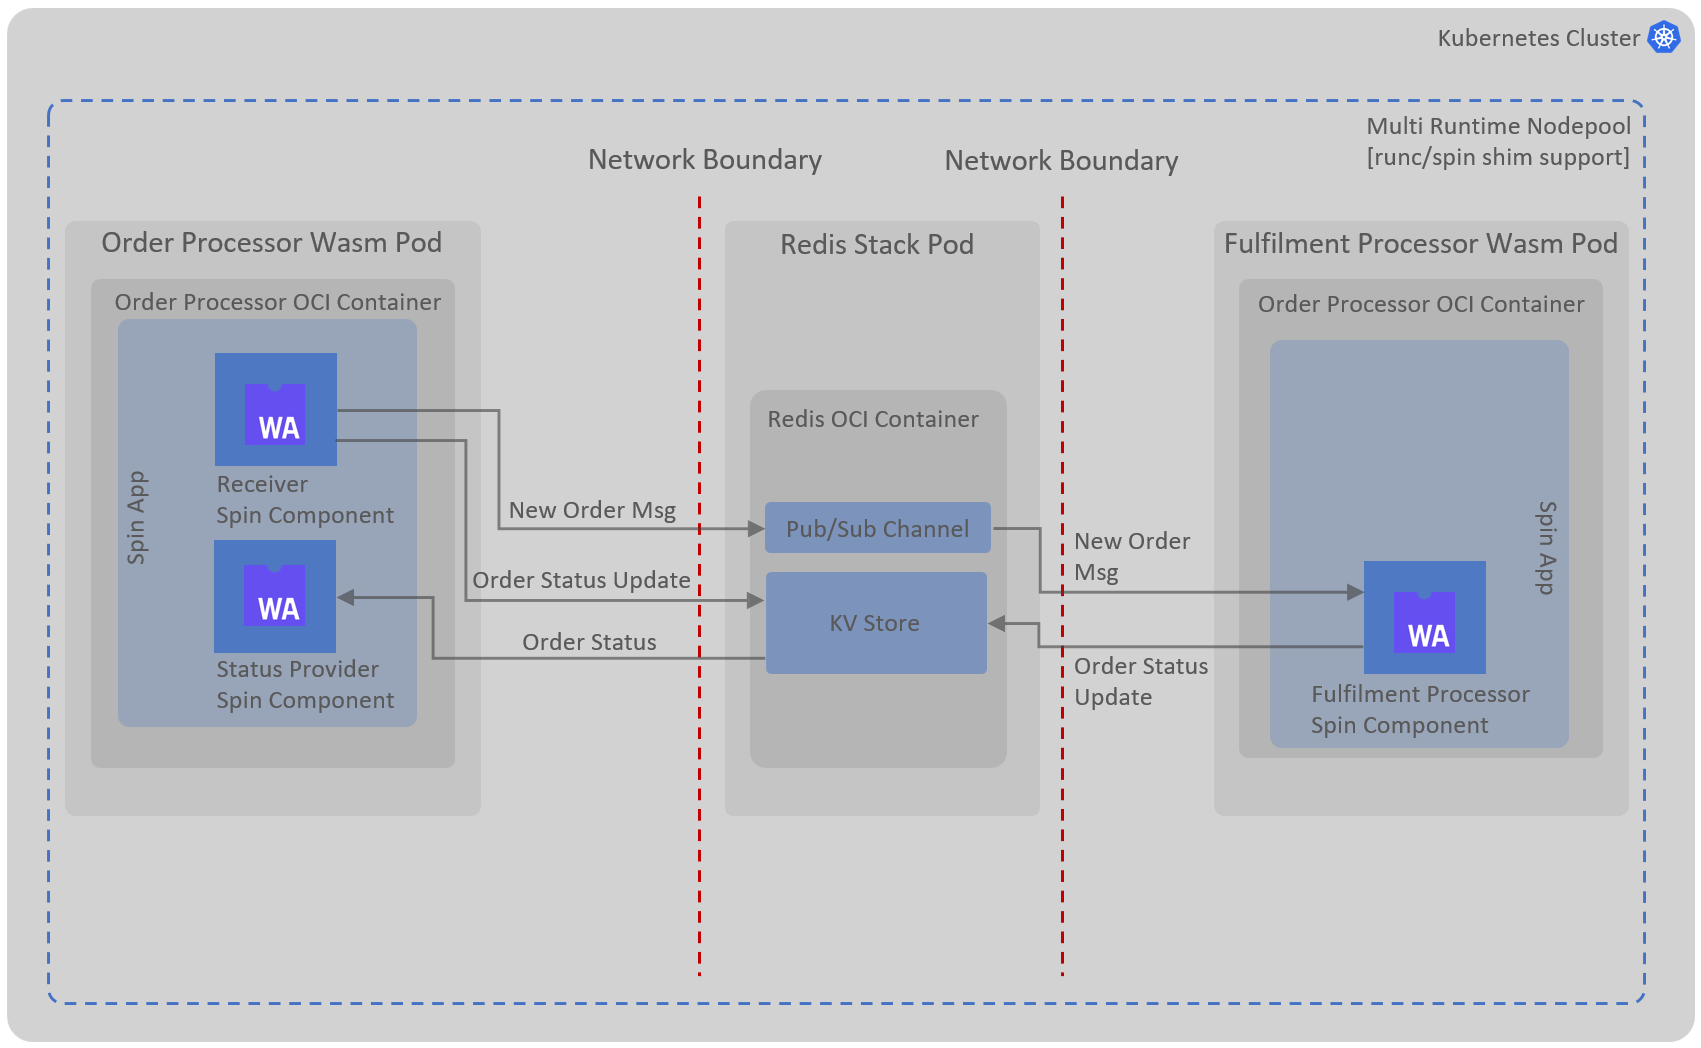
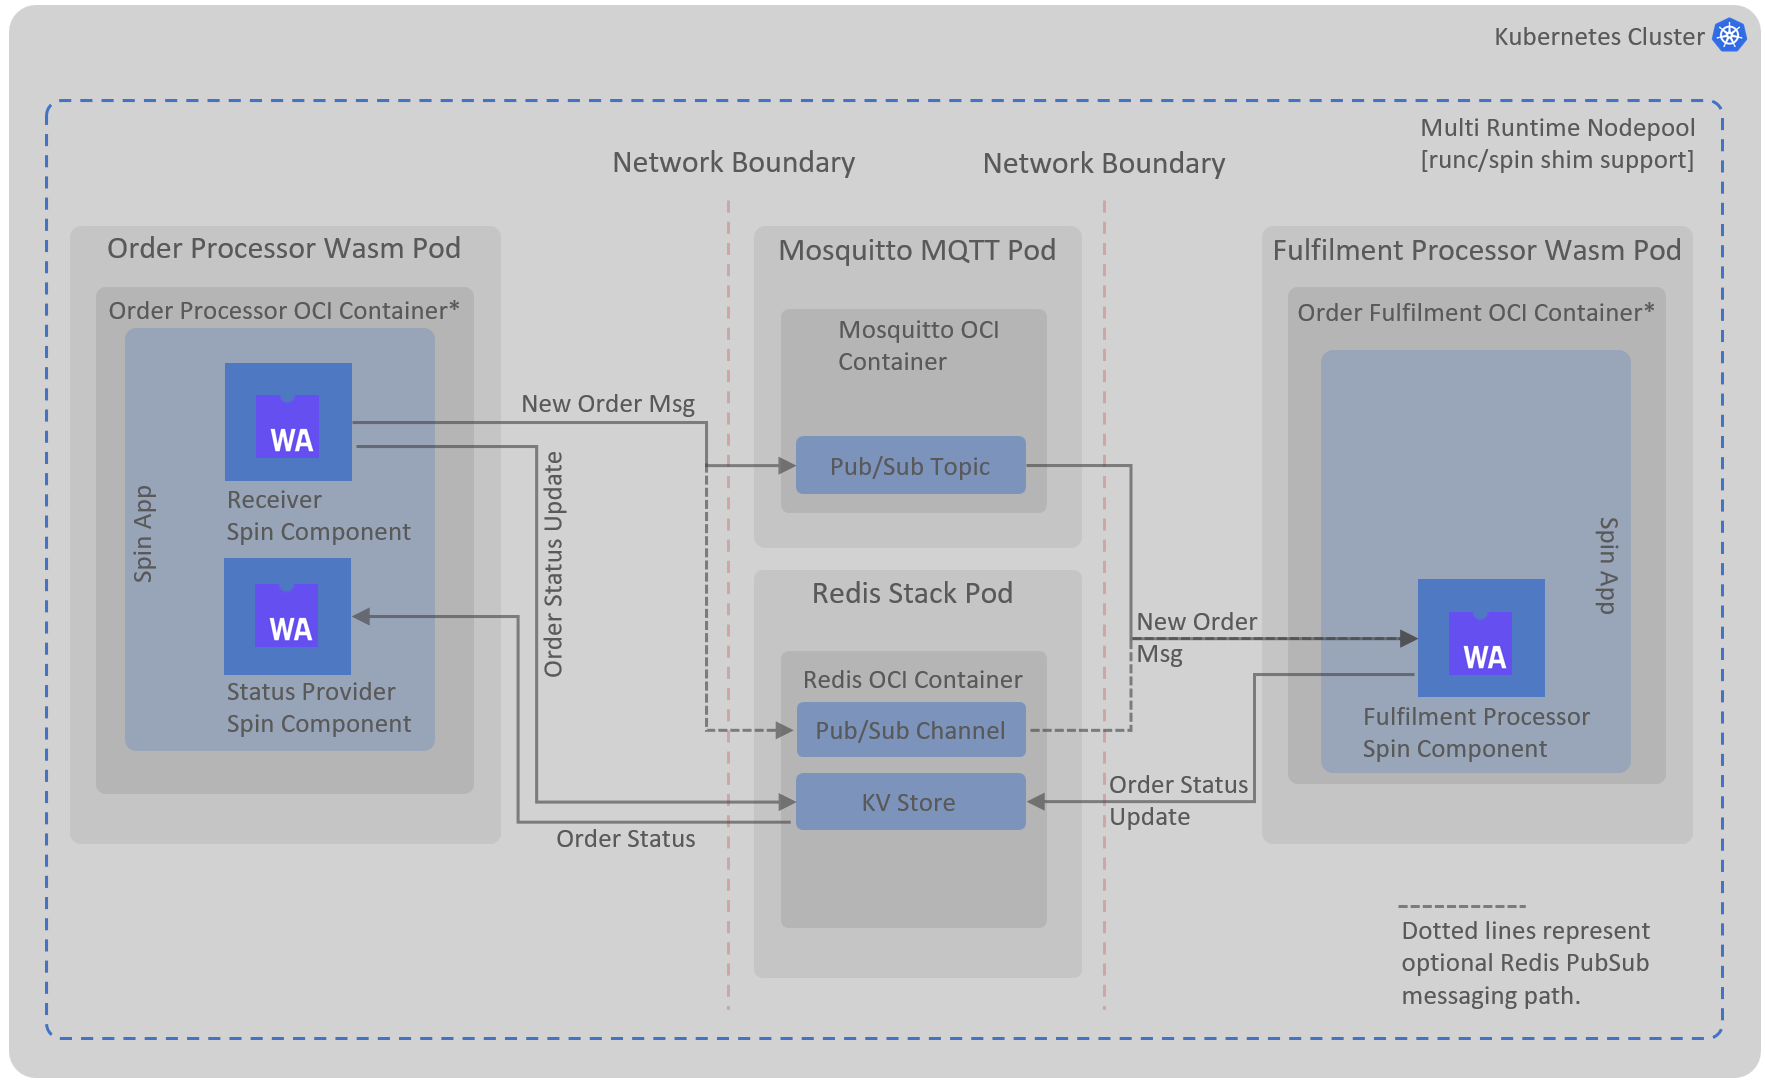
Updated order processing diagram

diff --git a/README.md b/README.md
@@ -20,7 +20,7 @@ Following components are the key parts of this solution (arrows show data flow):
 1. Kubernetes Cluster: a local kubernetes cluster (K3d) running both Wasm containers and standard OCI containers as pods.
 2. Spin Shim: a Containerd shim for running Spin apps, updated the Spin shim which includes Http, Mqtt and Redis triggers.
 3. Spin Apps:
-   Spin apps are packaged as OCI container images but Spin shim extracts the Spin config and binaries from it before running the apps directly, containers are only used for packaging Spin apps, not execution.
+   Spin apps are packaged as OCI container* images but Spin shim extracts the Spin config and binaries from it before running the apps directly, containers are only used for packaging Spin apps, not execution.
     1. Order Processor App:
        An app to receive new order and order status requests on http endpoints, contains two wasm components:
        * Receiver: implements Http Accept/202 pattern to acknowledge new order request immediately and publishes order message to Mosquitto mqtt broker or on Redis pub/sub.
